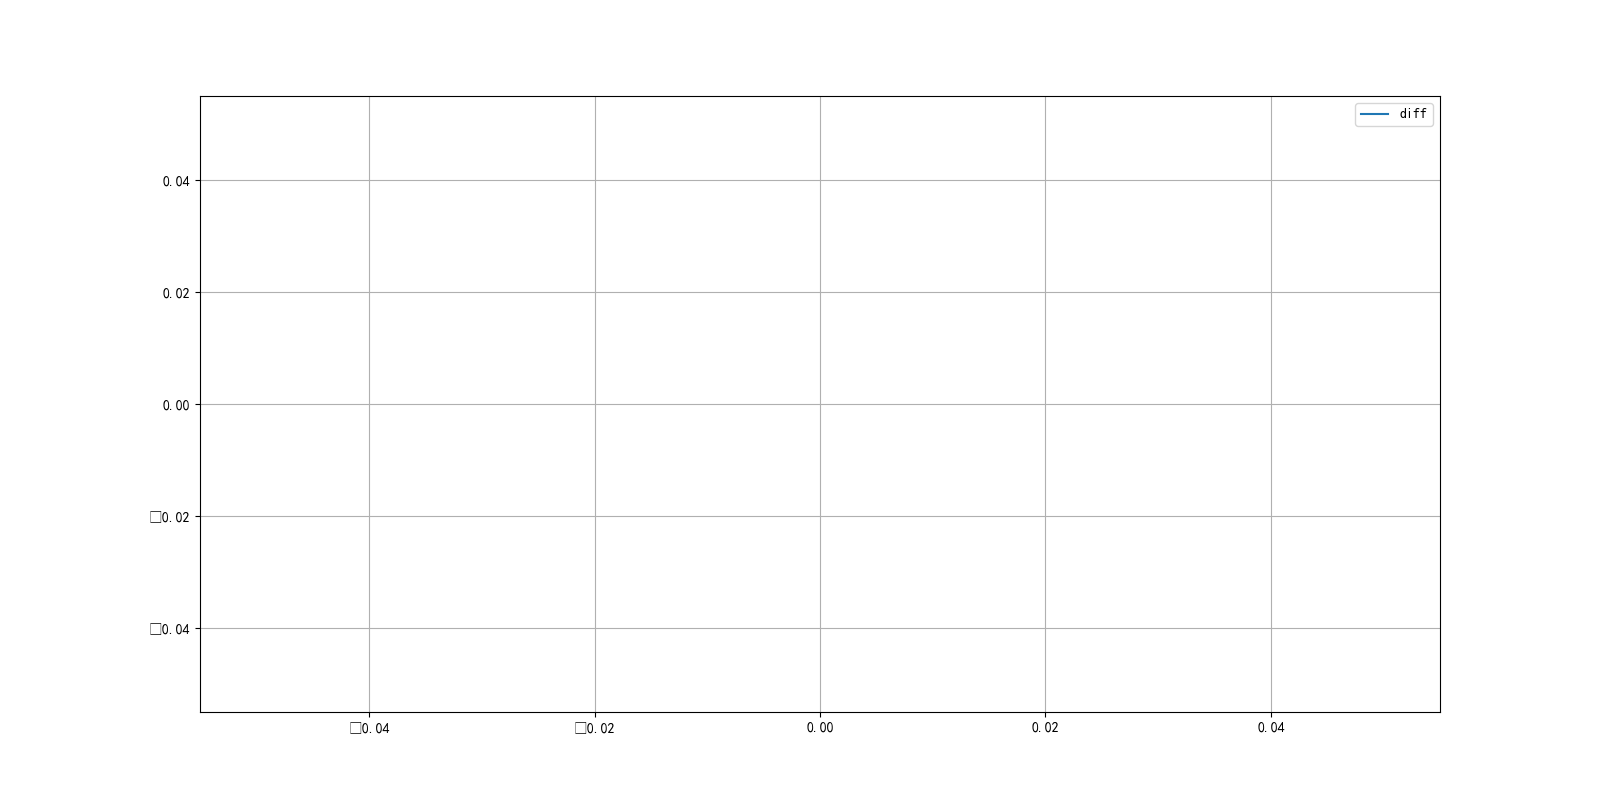
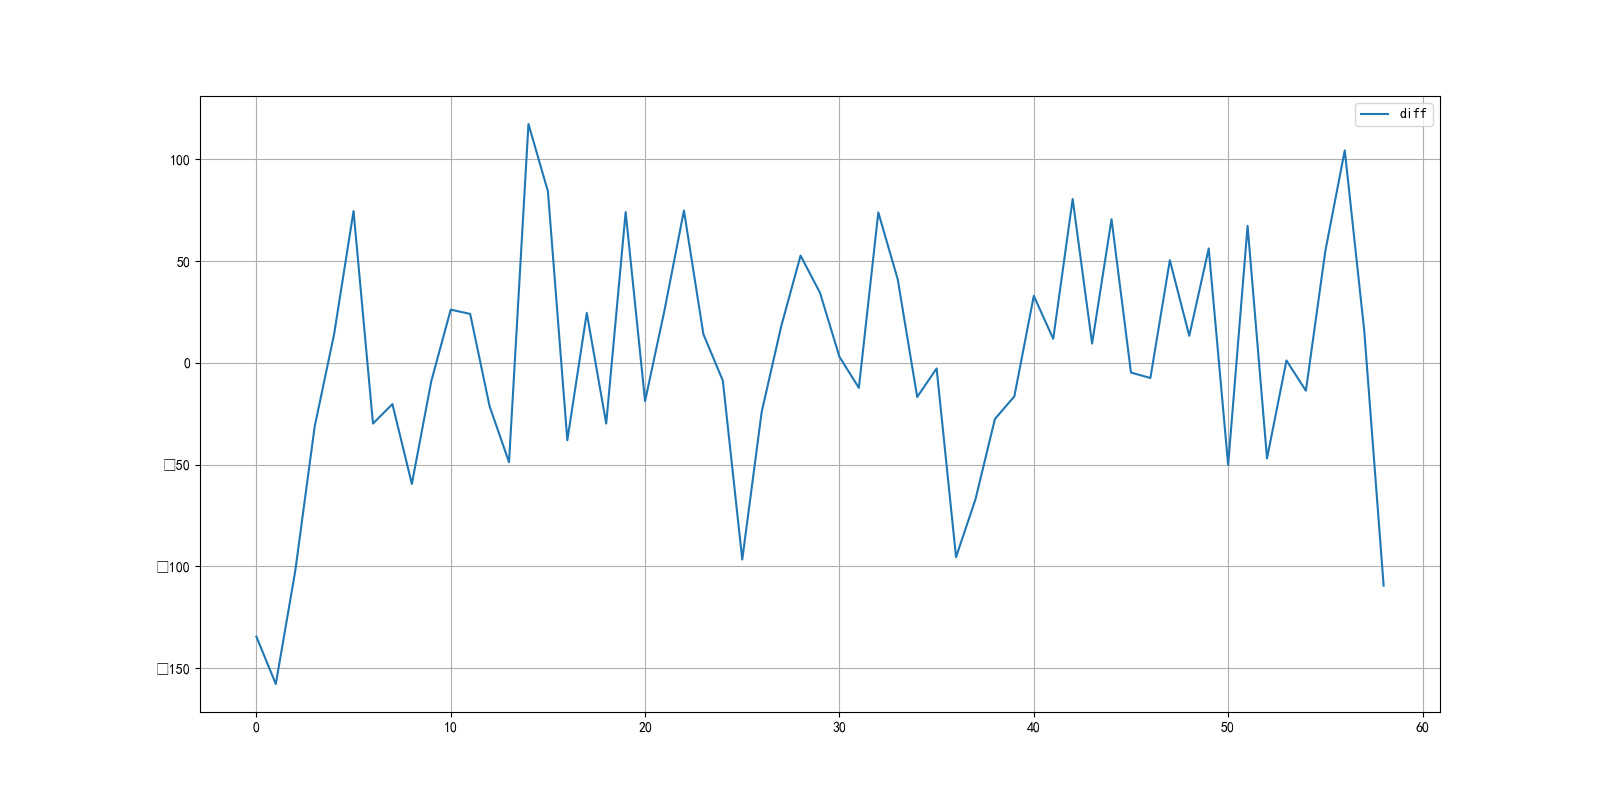
2021-01-04

diff --git a/src/study/realtime_v2.py b/src/study/realtime_v2.py
@@ -116,7 +116,7 @@ def mode_std(a):
     return math.fabs(3000*math.cos(a/60-0.55)+3400+80*math.cos(a/5 *math.pi)-reflect)+reflect
 
 def model2(a):
-    return math.fabs(3200*math.cos(a/70-0.5)+3200+60*math.cos(a/5 *math.pi)-reflect)+reflect
+    return math.fabs(3300*math.cos(a/60-0.55)+3100+80*math.cos(a/5 *math.pi)-reflect)+reflect
 
 
 def draw_predict(n=70):
@@ -130,7 +130,7 @@ def draw_predict(n=70):
     predict.plot(grid=True)
     plt.show()
     
-def draw_graph():
+def draw_graph(risk=True):
     
     rzrq=fc.get_cache("rzrq",get_rzrq_realtime)
     rzrq.applymap(convertUnit)
@@ -143,9 +143,7 @@ def draw_graph():
 #     print(csi500.info())
 #     print("csi500",csi500)
 
-    etf=deduct_etf()/10000
-#     print("eft",etf)
-    demestic=rzrq-etf
+
 
 #     print("demestic macket",demestic)
     features=rzrq[["沪深300"]]
@@ -153,9 +151,14 @@ def draw_graph():
 #     print(demestic.index.duplicated())
 #     features["融资余额"]=demestic["融资余额"]
 #     (csi500_value[a]*2.7-1000-rzye[a])*2
-    series1=(2.7*csi500["中证500"]-1000-demestic["融资余额"])*2
+    
 #     print(series1)
-#     features["风险-中证500"]=series1
+    if risk:
+        etf=deduct_etf()/10000
+#     print("eft",etf)
+        demestic=rzrq-etf
+        series1=(2.7*csi500["中证500"]-1000-demestic["融资余额"])*2
+        features["风险-中证500"]=series1
 #     print("rzrq",rzrq)
 #     print("demestic",demestic)
     series2=(2.7*rzrq["沪深300"]-demestic["融资余额"])*2+5000
@@ -179,7 +182,7 @@ def draw_graph():
     statistics(features["diff"][4:])
 
     print(features)
-    diff_df=features[["diff"]][4:]
+    diff_df=features[["diff"]]
     features.pop("diff")
     features.plot(grid=True,title=date.today())
     
@@ -204,6 +207,6 @@ def draw_graph():
     
 
 draw_graph()
-# draw_predict(60)
+draw_predict(60)
 
 
